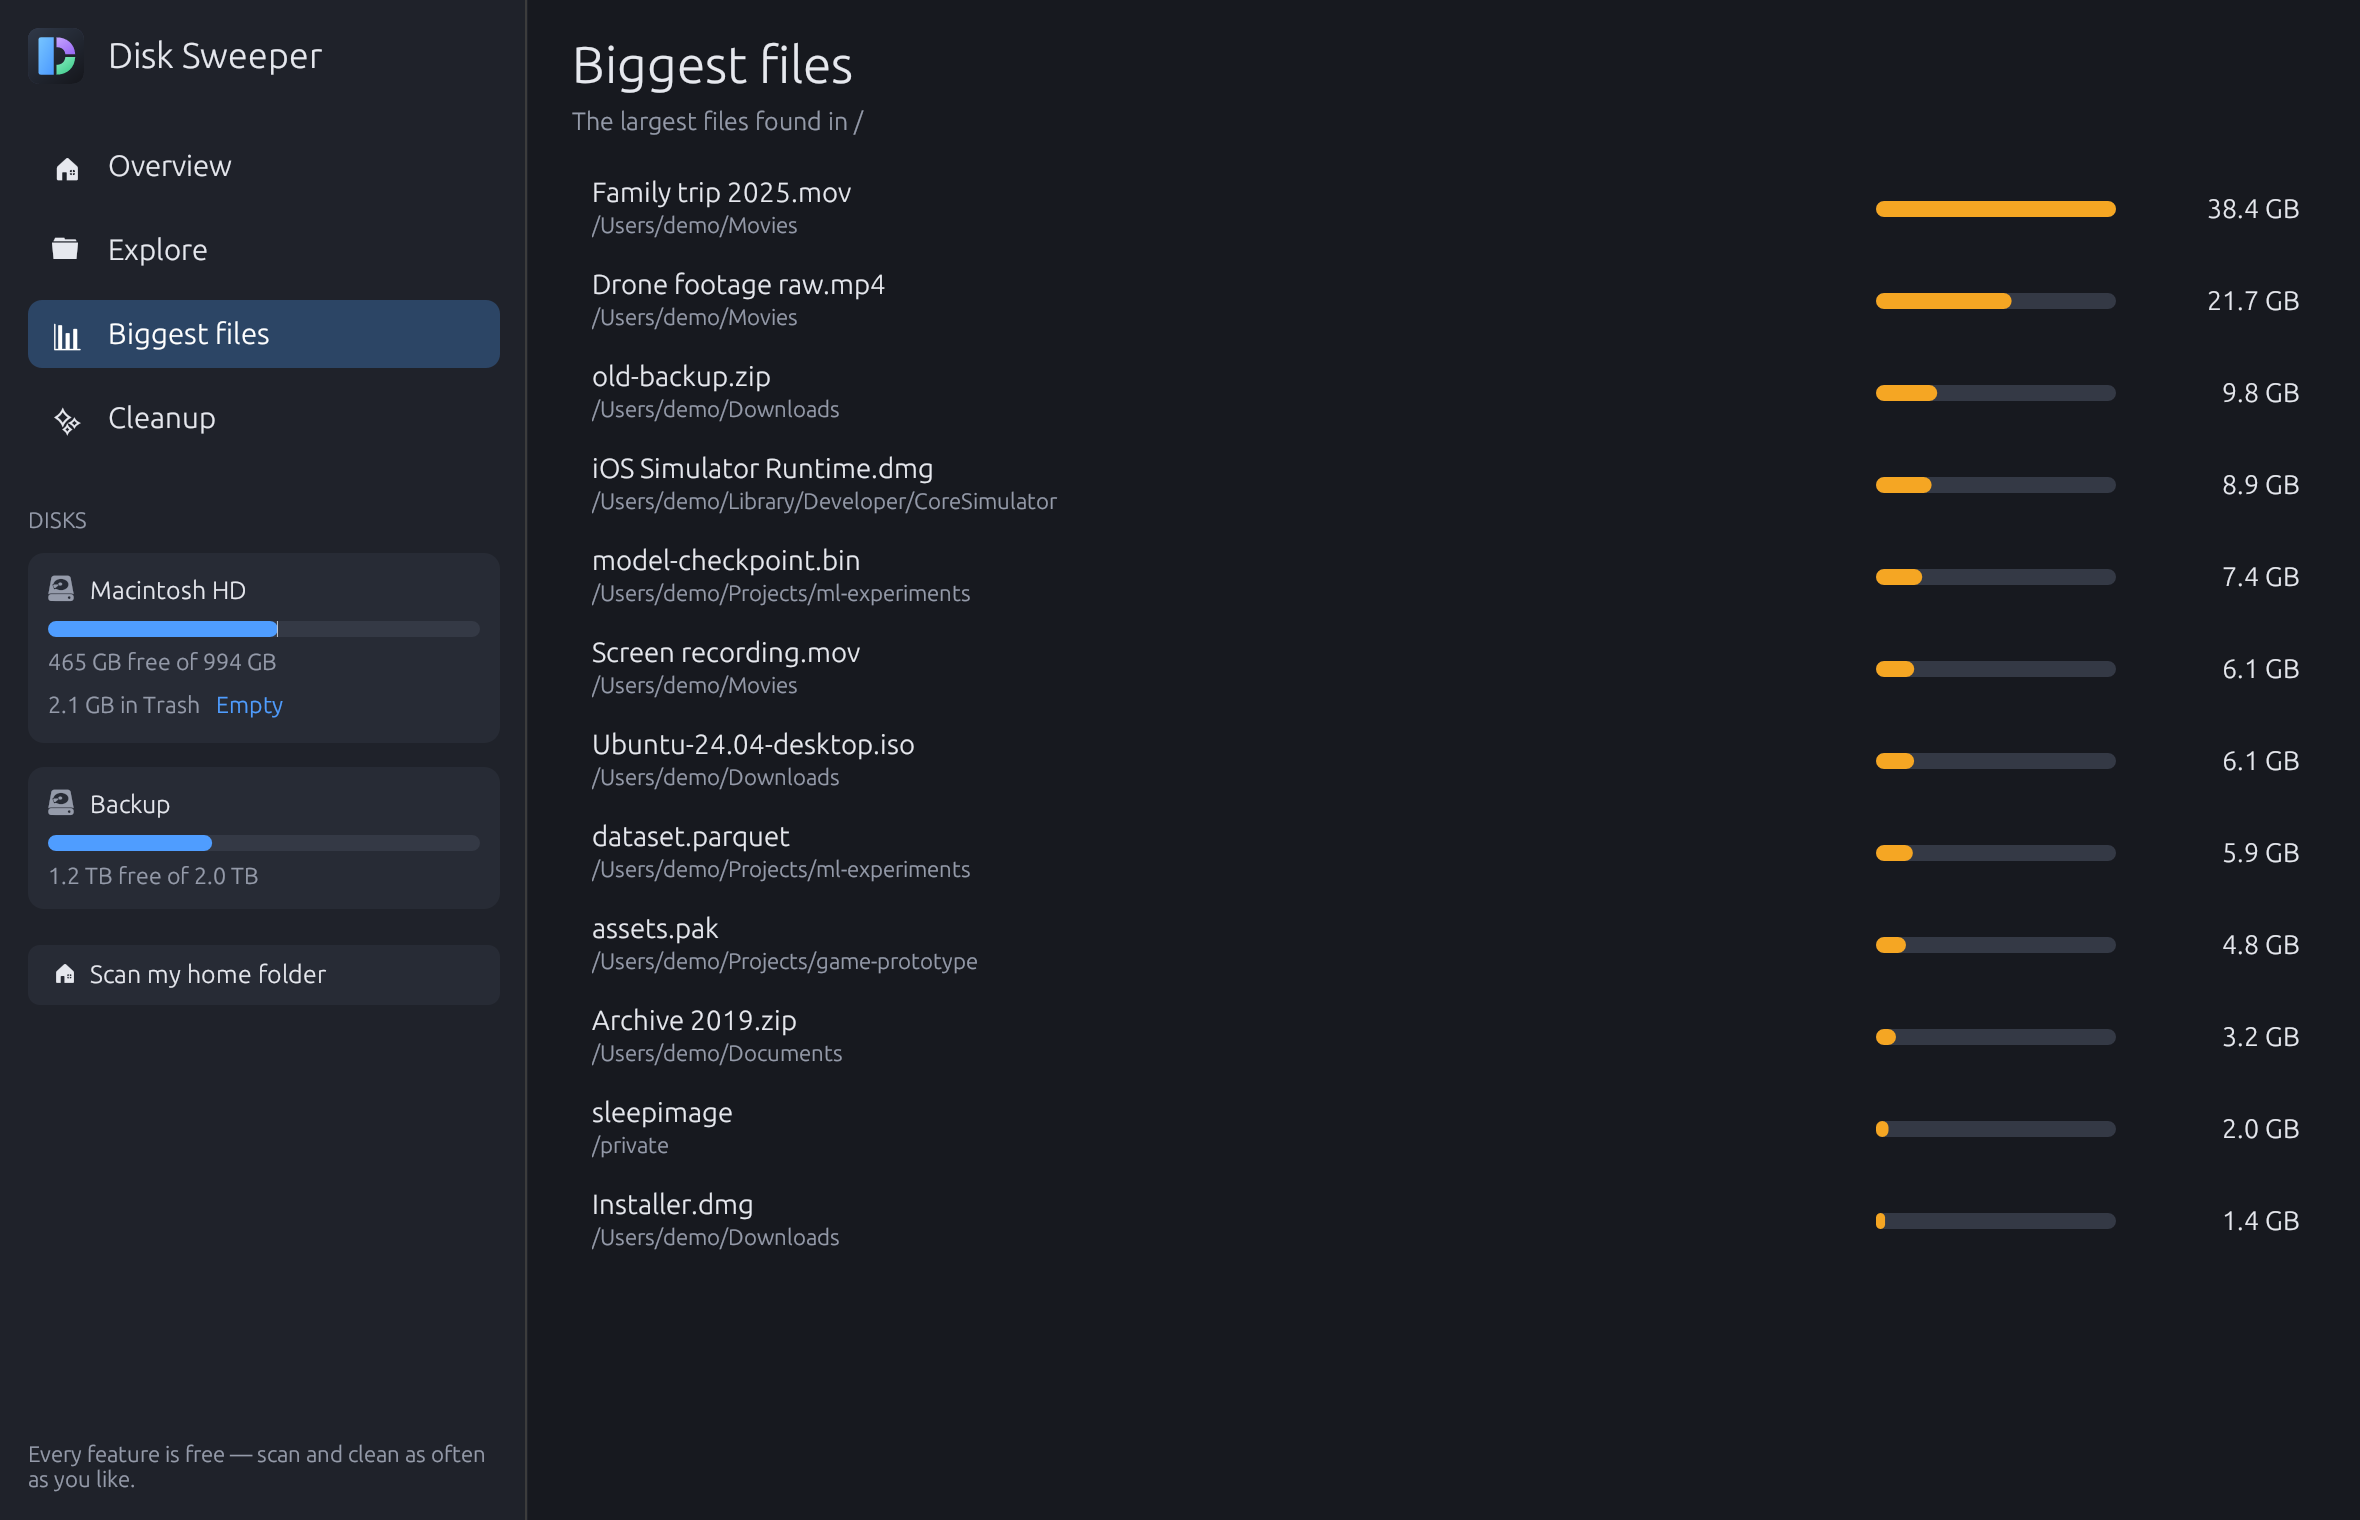
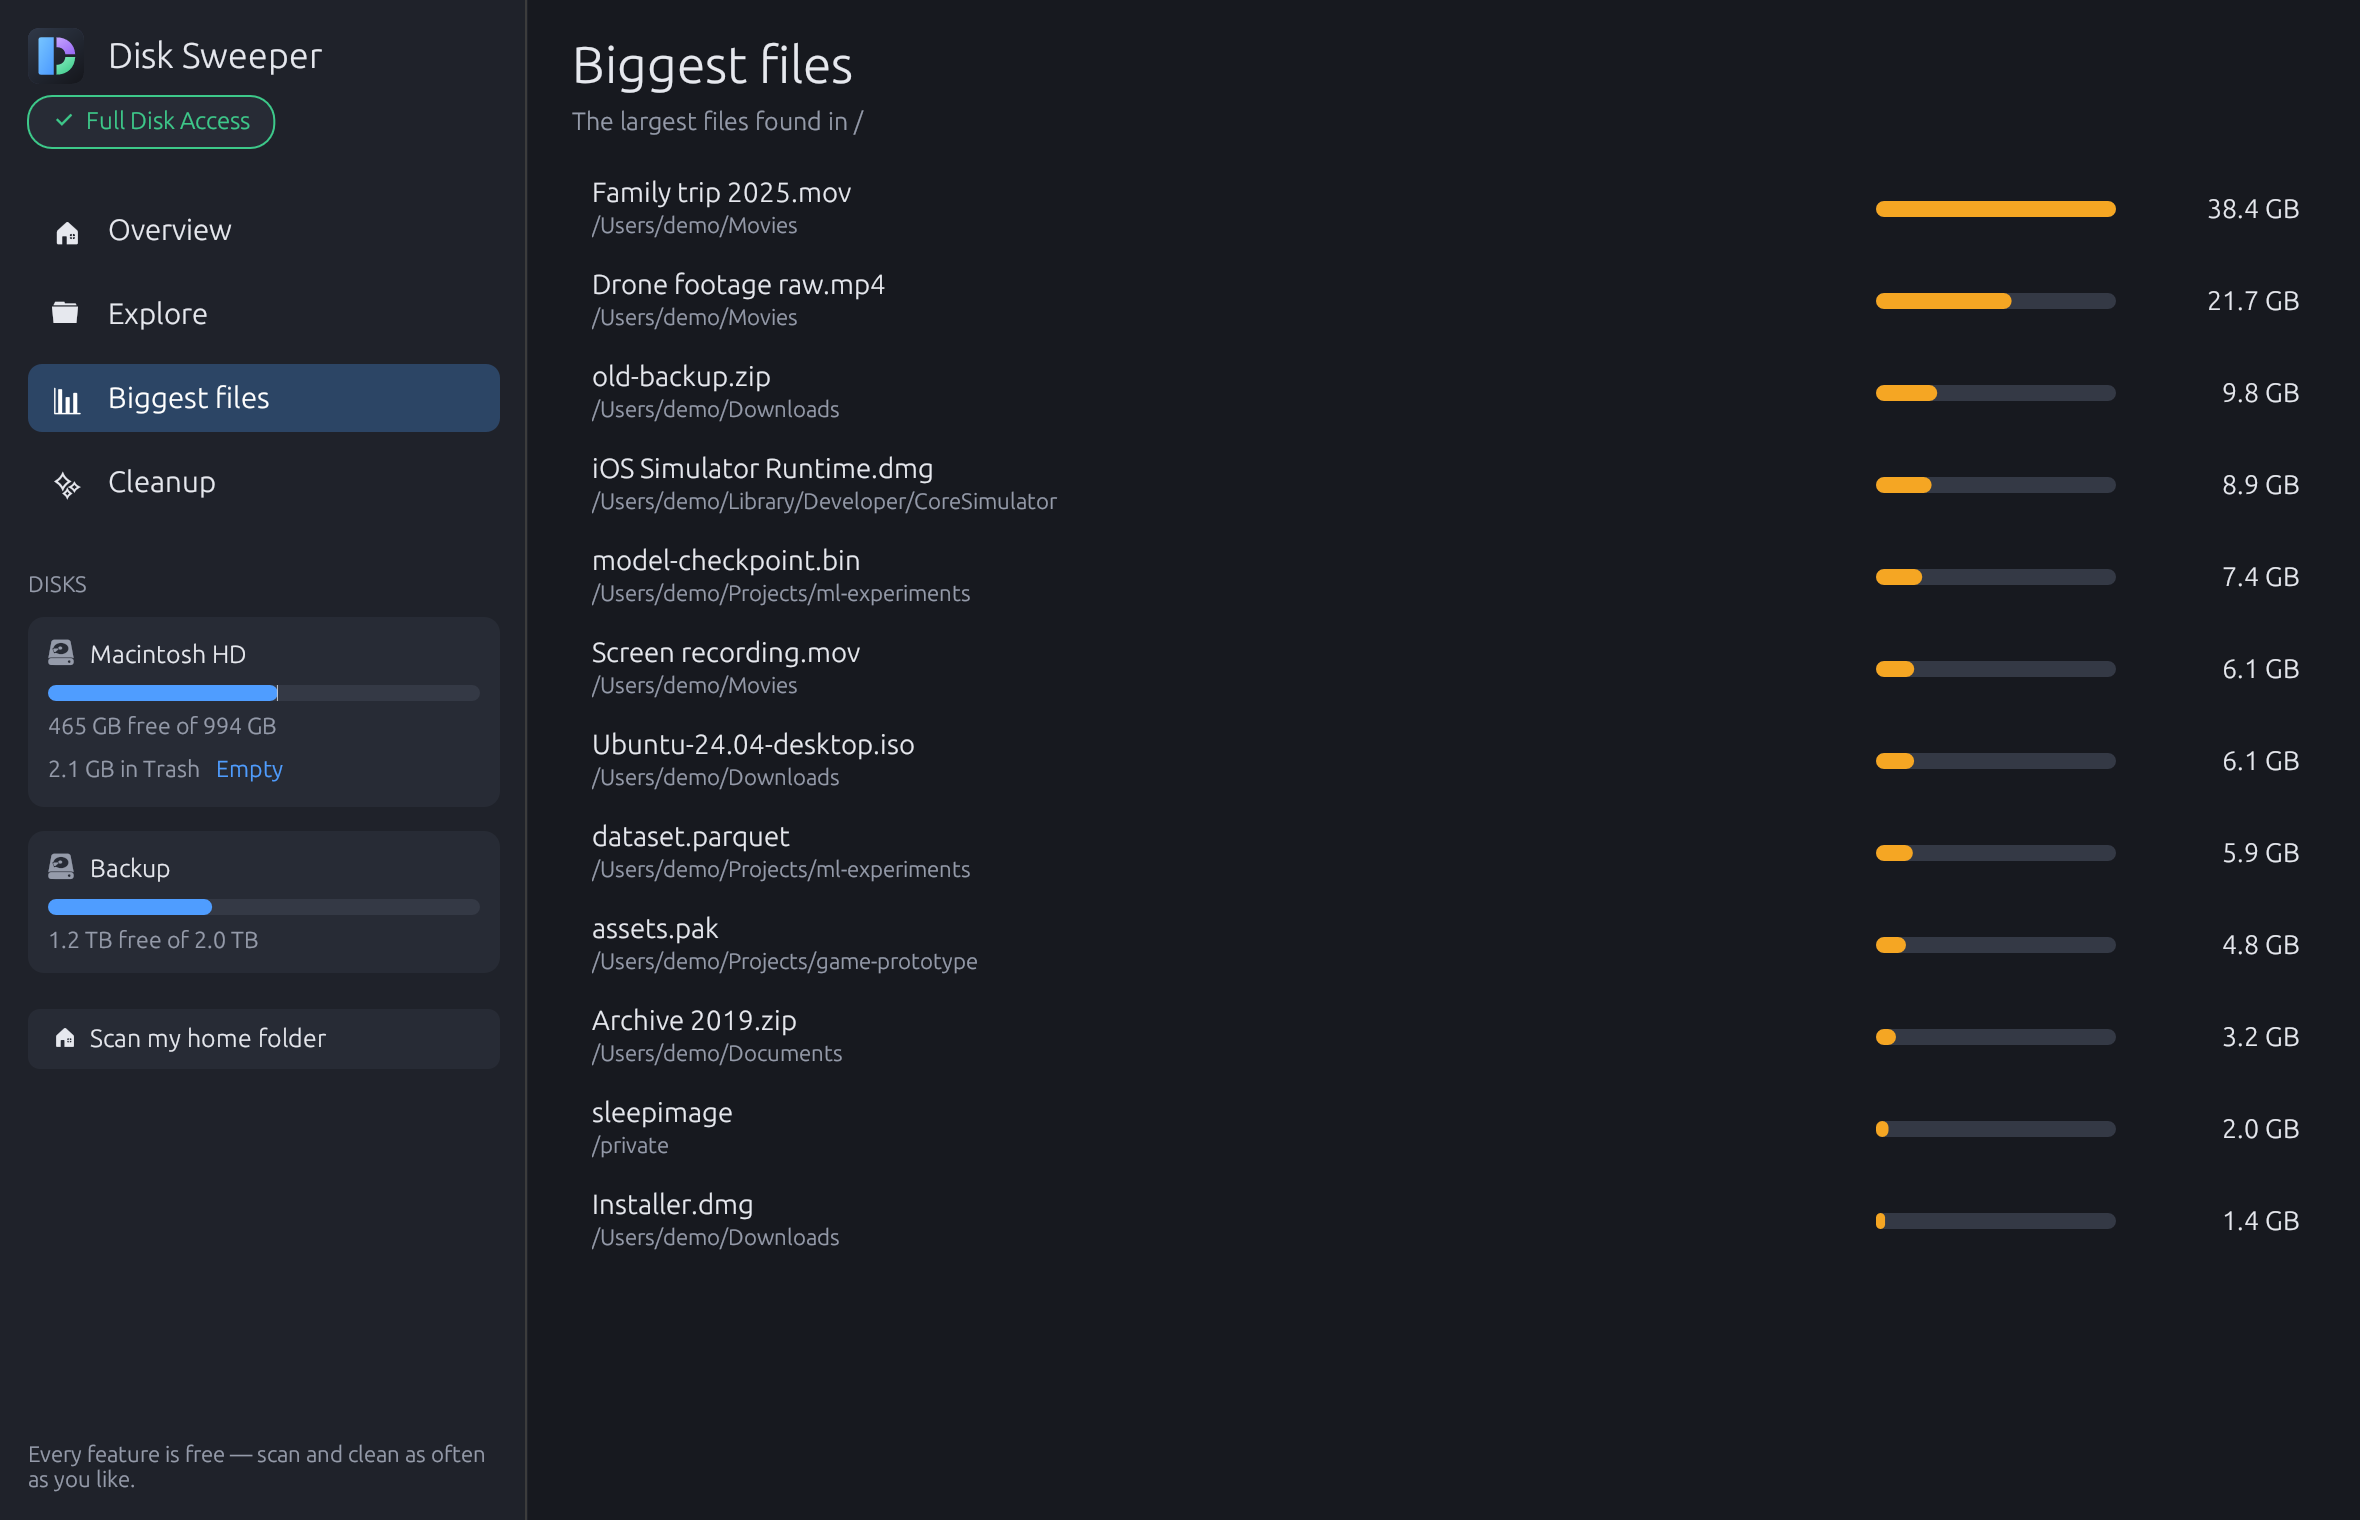
Show Full Disk Access status in the sidebar header

Changed region(s): [[0.0, 0.0618, 0.2165, 0.3401], [0.0, 0.3711, 0.1856, 0.6493], [0.0619, 0.6803, 0.1237, 0.7112]]

diff --git a/src/app.rs b/src/app.rs
@@ -347,11 +347,12 @@ impl App {
 
     /// Look again for Full Disk Access (cheap); move on once it's there.
     fn check_access(&mut self) {
-        if self.shot.is_some() || self.full_access != Some(false) {
+        if self.shot.is_some() {
             return;
         }
+        let previous = self.full_access;
         self.full_access = platform::full_disk_access();
-        if self.full_access == Some(true) {
+        if previous == Some(false) && self.full_access == Some(true) {
             self.setup.retain(|s| *s != Setup::Access);
             if self.setup.is_empty() {
                 self.finish_setup("done");
@@ -364,7 +365,9 @@ impl App {
         if self.demo {
             return;
         }
-        self.check_access();
+        if self.full_access == Some(false) {
+            self.check_access();
+        }
         self.volumes = platform::volumes();
         self.disks_read = std::time::Instant::now();
         self.hidden_volumes = self
@@ -606,7 +609,7 @@ impl eframe::App for App {
             ctx.request_repaint_after(std::time::Duration::from_millis(100));
         }
 
-        // Coming back from System Settings: see if access was just turned on.
+        // System Settings may have granted or revoked access while we were away.
         let focused = ctx.input(|i| i.focused);
         if focused && !self.was_focused {
             self.check_access();
@@ -663,6 +666,21 @@ impl App {
             ui.add_space(4.0);
             ui.label(RichText::new("Disk Sweeper").size(18.0).strong().color(TEXT));
         });
+        if let Some(granted) = self.full_access {
+            let (label, color, tip) = if granted {
+                ("✔  Full Disk Access", GOOD, "Disk Sweeper can include protected data such as Mail and Messages in scans.")
+            } else {
+                ("⚠  Limited access", DANGER, "Scans skip protected data such as Mail and Messages. Click to open Full Disk Access settings.")
+            };
+            let badge = egui::Button::new(RichText::new(label).size(12.0).color(color))
+                .fill(CARD)
+                .stroke(Stroke::new(1.0, color))
+                .rounding(12.0)
+                .sense(if granted { Sense::hover() } else { Sense::click() });
+            if ui.add(badge).on_hover_text(tip).clicked() && !granted {
+                platform::open(Path::new(platform::FULL_DISK_ACCESS_SETTINGS));
+            }
+        }
         ui.add_space(18.0);
 
         for (tab, icon, label) in [
